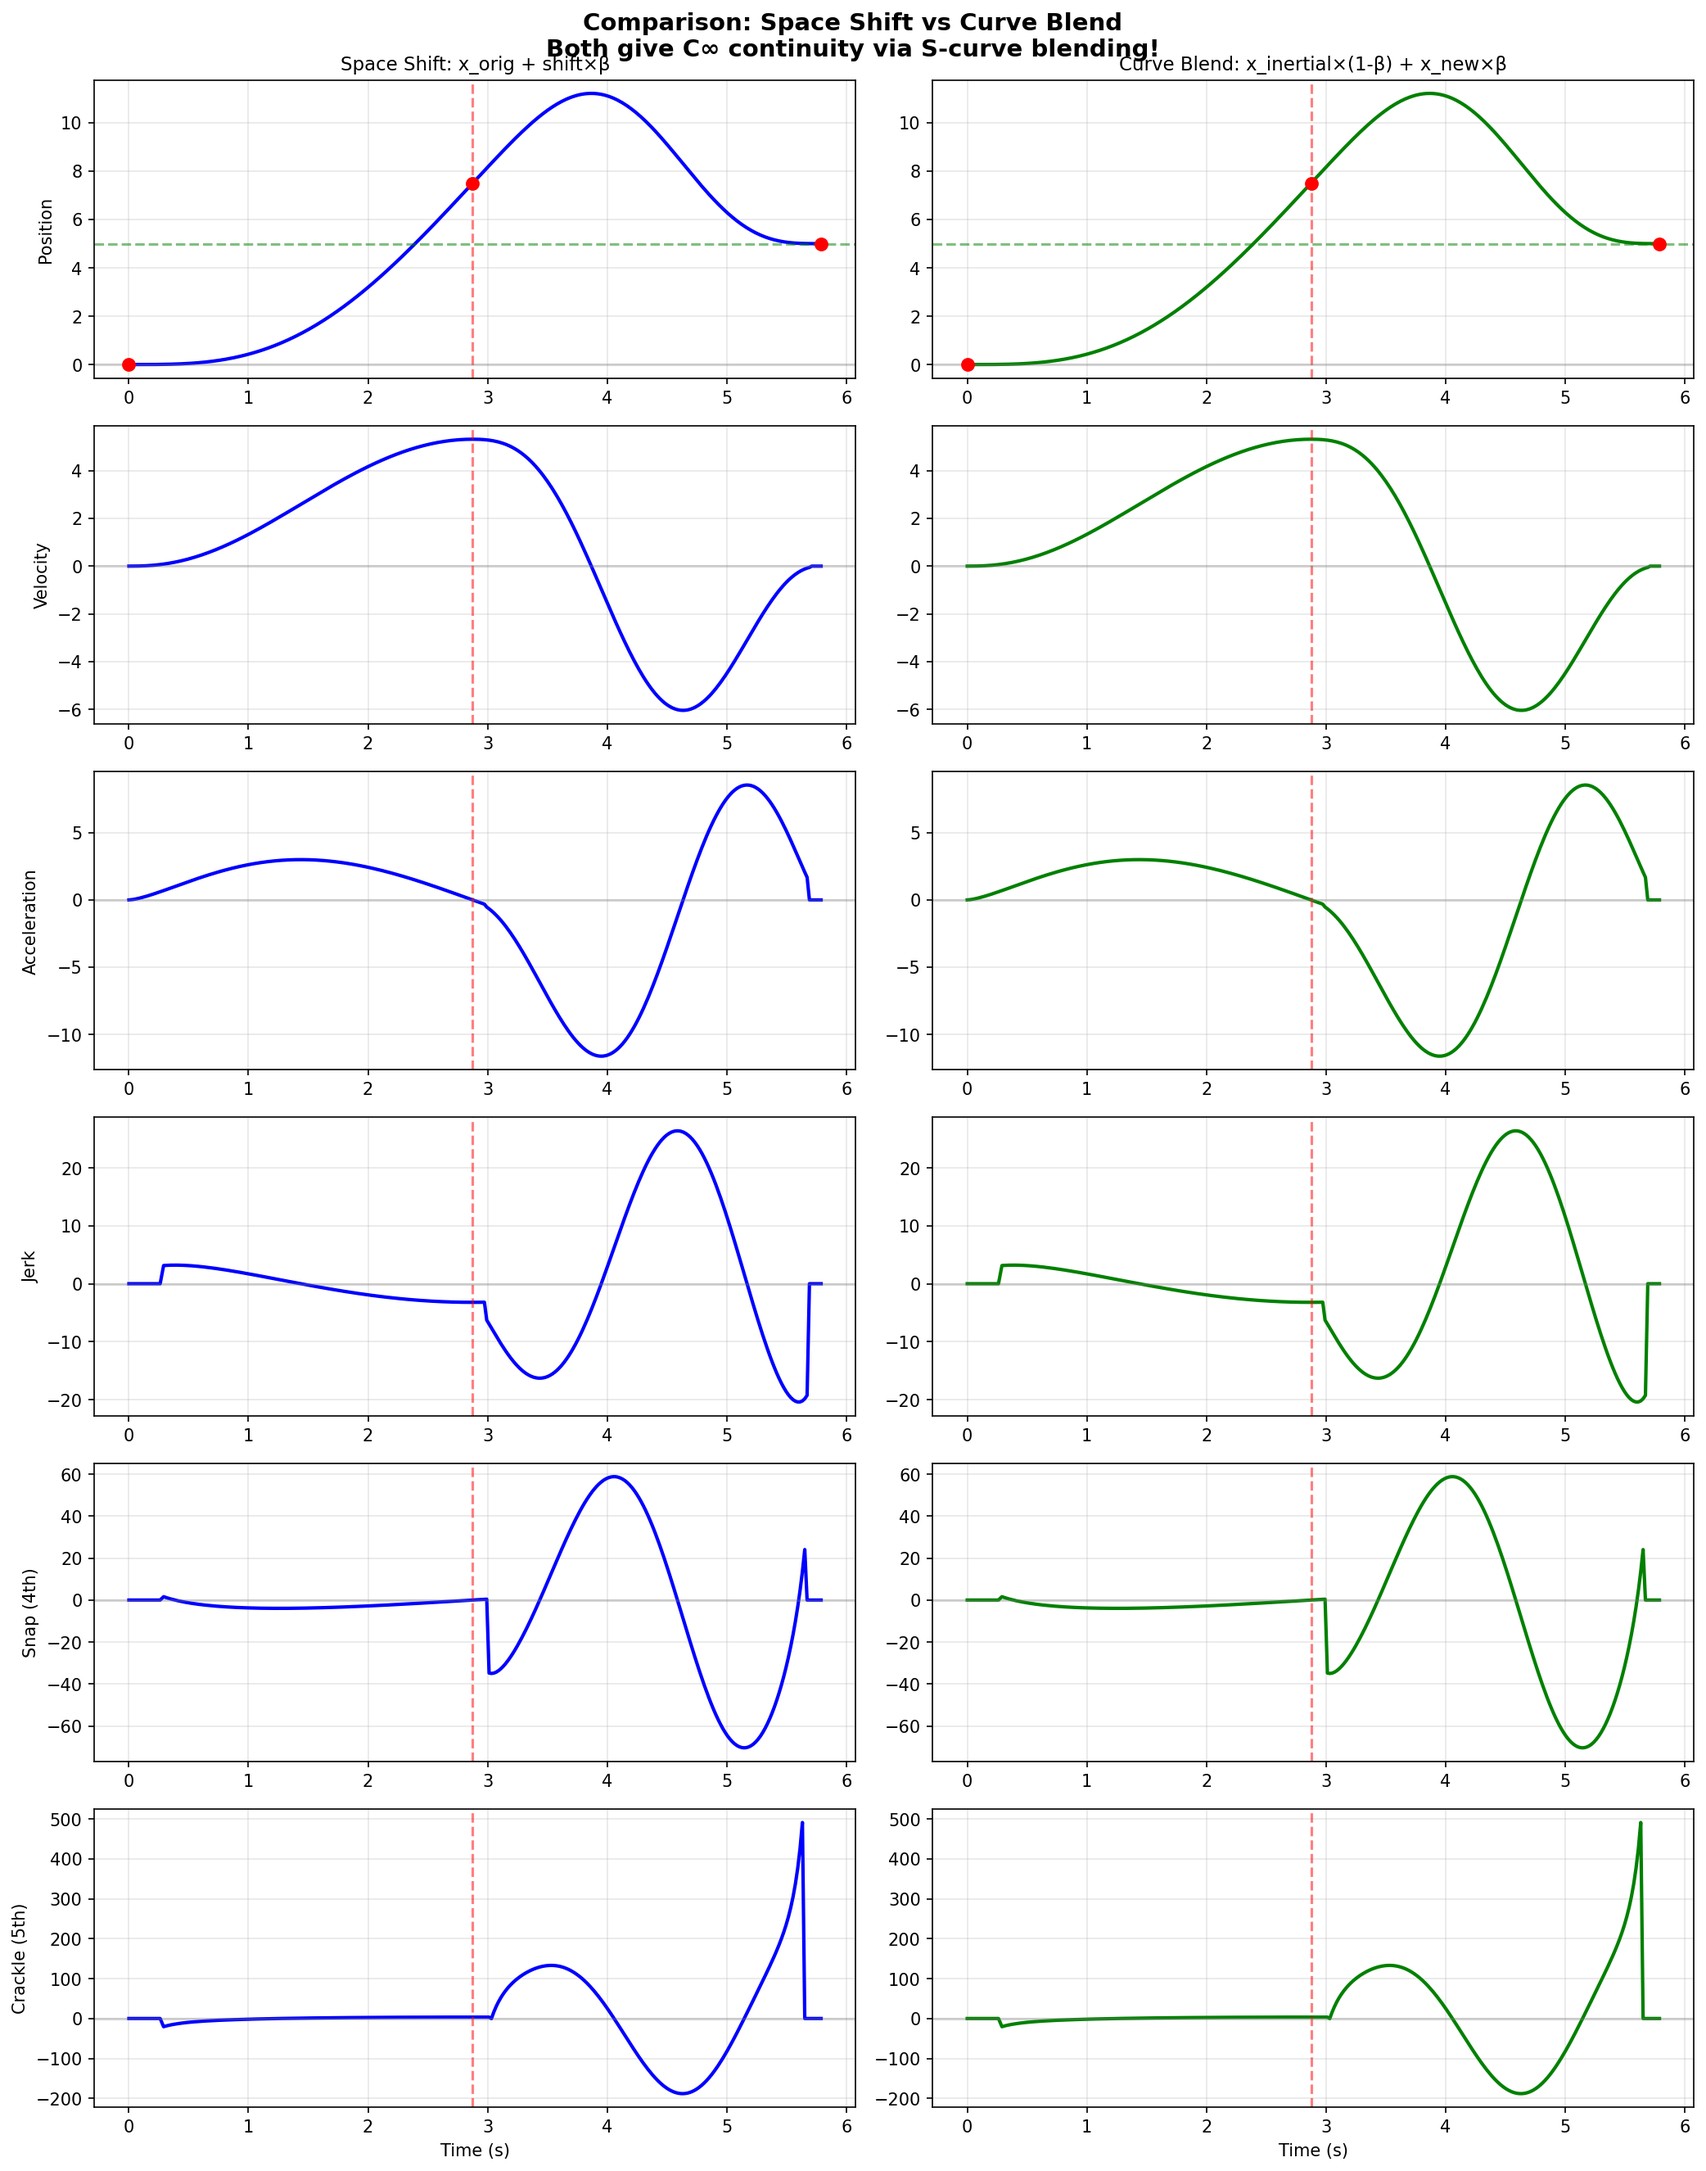
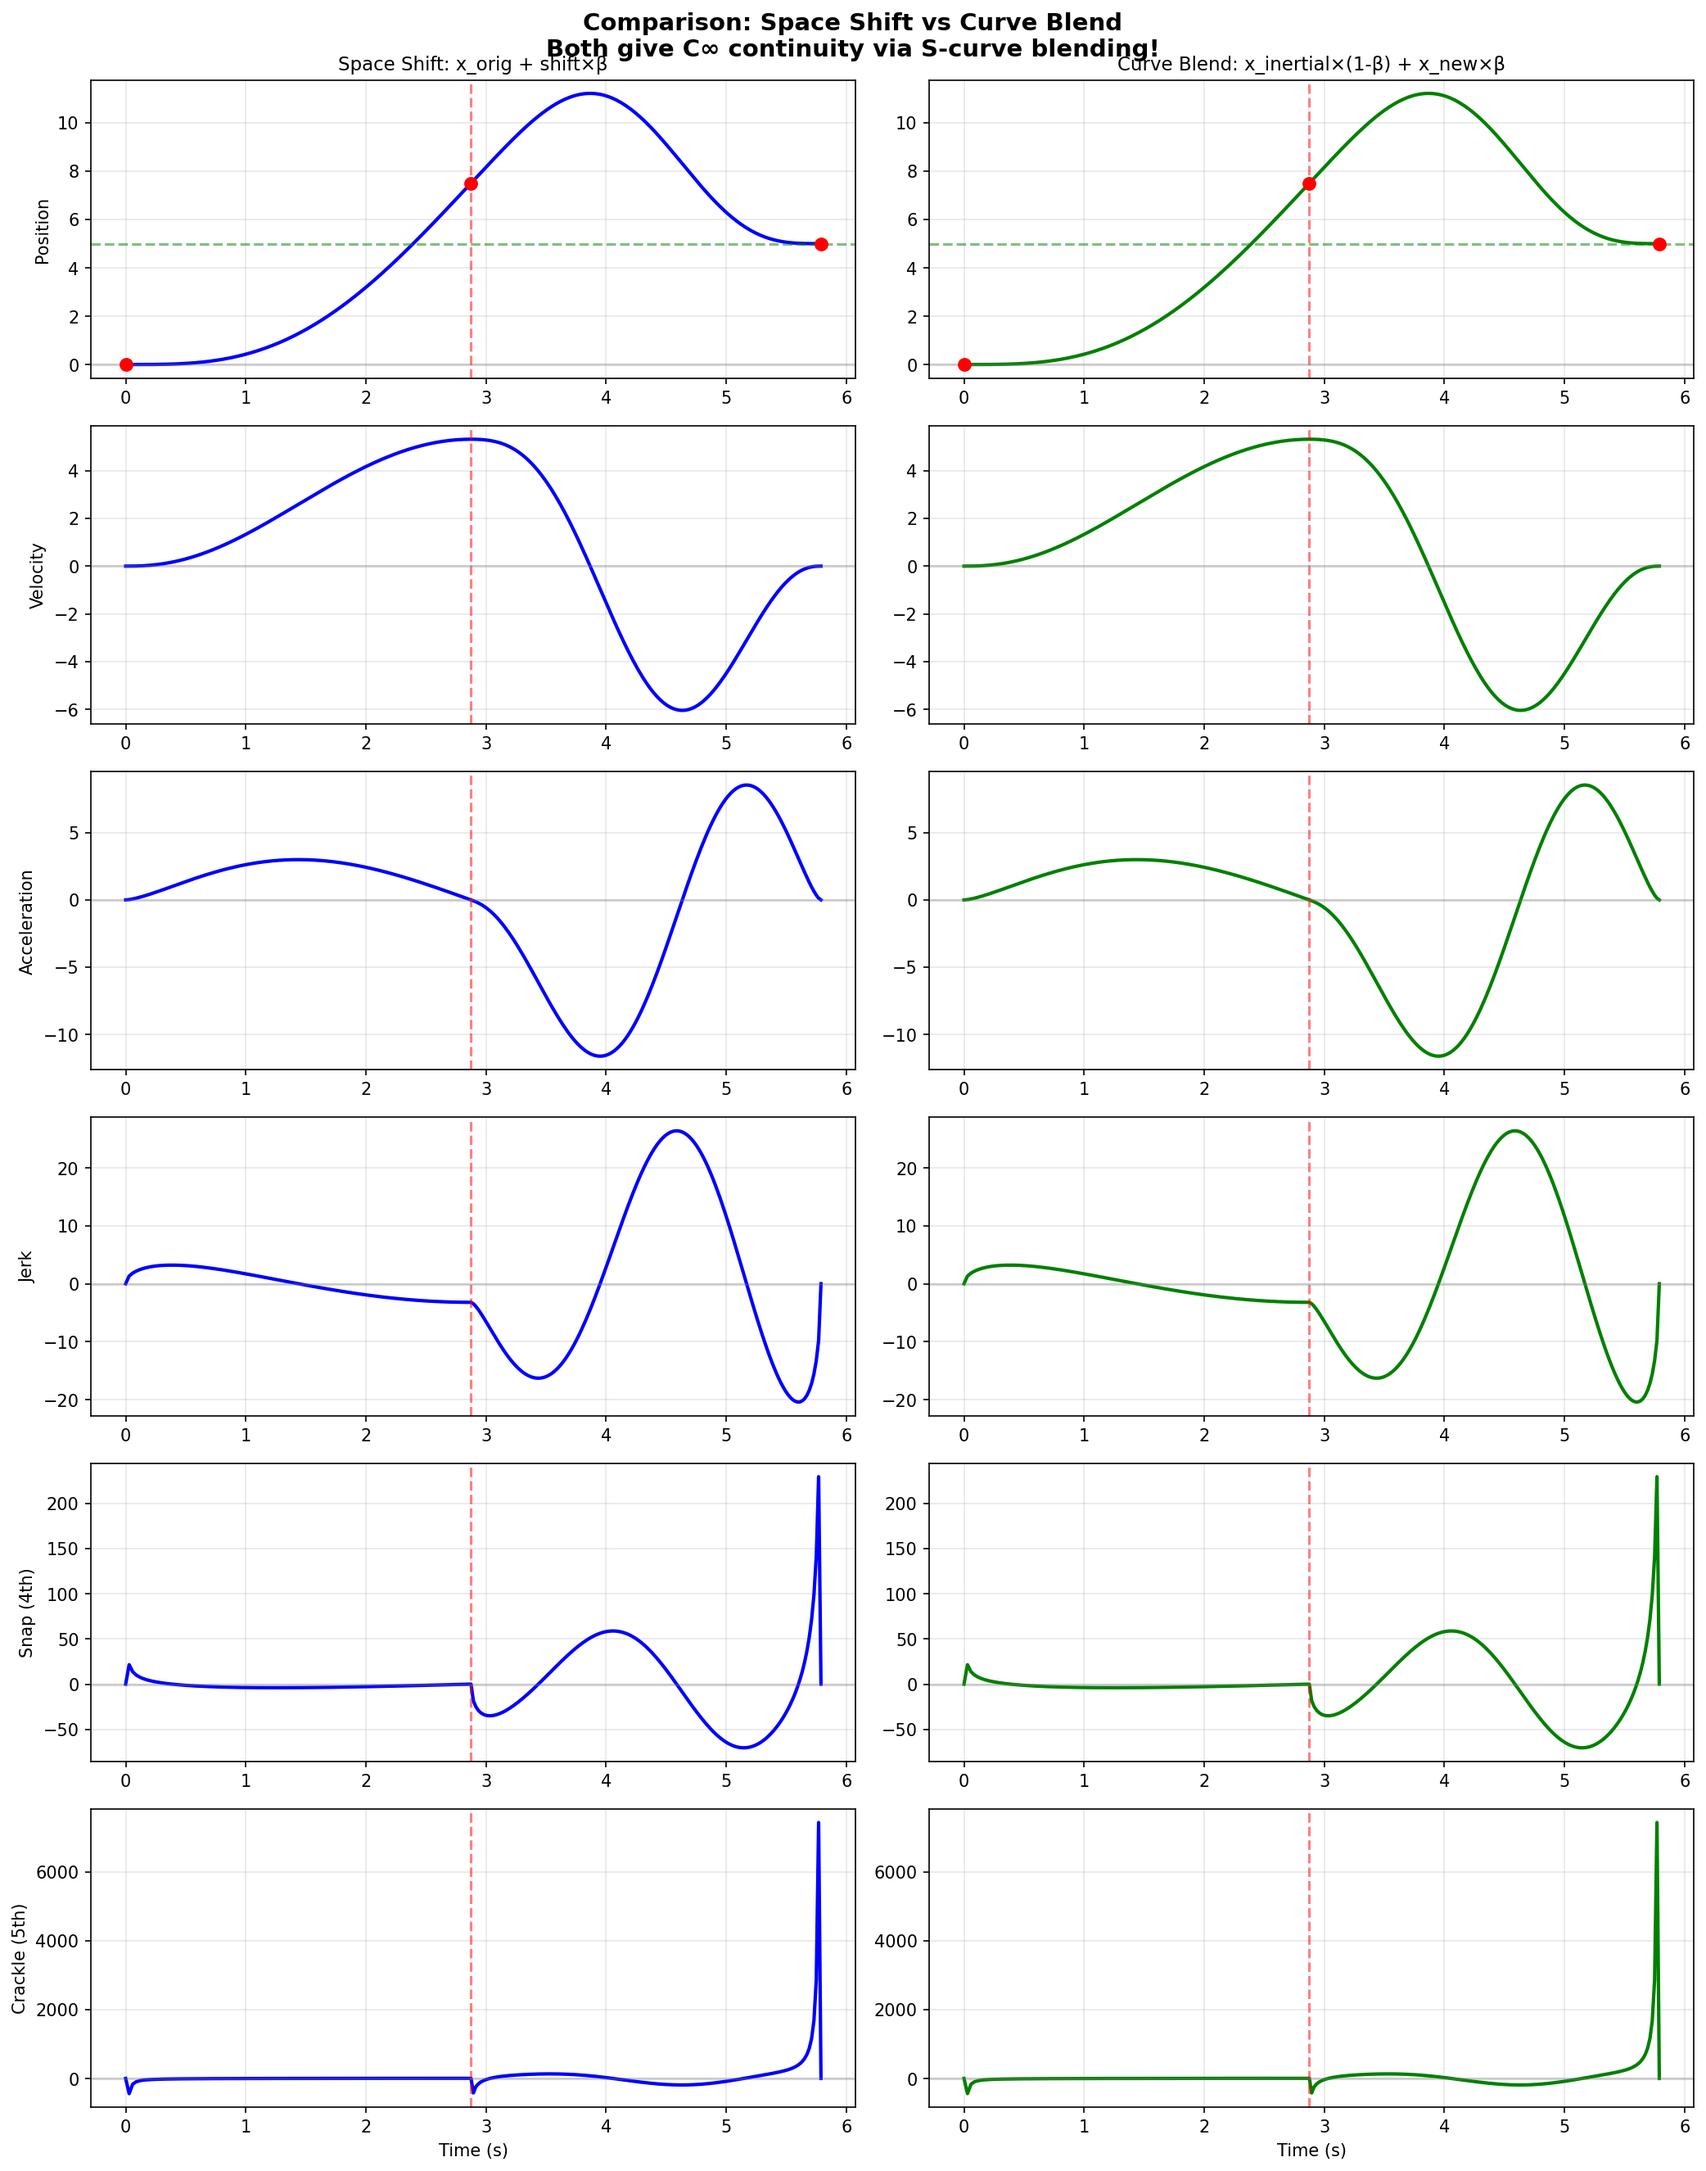
Fix snap discontinuity caused by hard boundary cutoff
The previous boundary_margin created a hard cutoff that caused
discontinuities in higher derivatives. Changed to a much smaller
threshold (0.999) that only clamps values extremely close to τ=±1.

This ensures smooth C∞ continuity throughout the motion while still
avoiding numerical blowup at the exact boundary.

diff --git a/src/scurvebeta/generalized.py b/src/scurvebeta/generalized.py
@@ -1024,20 +1024,24 @@ def normalized_f_derivatives(tau, max_order=8):
     # f(τ) - position (from normalized_f)
     results[0] = normalized_f(tau)
 
-    # Mask for interior region (away from boundaries)
-    # Higher derivatives need larger margin from boundary to avoid numerical issues
-    # As τ→±1, terms like (1-τ²)^(-k) blow up even though the full expression → 0
-    # For order n derivative, we need ~(1-τ²)^((2.5-n)/2), which blows up when n > 2.5
-    # Higher orders need progressively more margin
-    boundary_margin = 0.05 + 0.01 * max_order  # Scale margin with derivative order
-    mask = np.abs(tau) < (1 - boundary_margin)
+    # Smooth blending weight for boundary region
+    # Instead of hard cutoff, smoothly blend derivatives to 0 near boundaries
+    # This preserves C∞ continuity while avoiding numerical blowup
+    # Use a smooth weight based on (1-τ²) - naturally goes to 0 at τ=±1
+    boundary_threshold = 0.999  # Only clamp very close to boundary
+    mask = np.abs(tau) < boundary_threshold
     t = tau[mask]
 
     if len(t) == 0:
-        # All values are at or near boundaries - all derivatives are 0
+        # All values are at or very near boundaries - all derivatives are 0
         if scalar:
             return [float(r[0]) for r in results]
         return results
+
+    # Smooth blending weight that goes to 0 at boundary
+    # w = (1 - τ²)^p where p controls how fast it goes to 0
+    # Higher derivatives need faster decay to avoid numerical issues
+    blend_power = 0.5  # Gentle blending
 
     # Precompute powers of (1-τ²)
     one_minus_t2 = 1 - t**2
